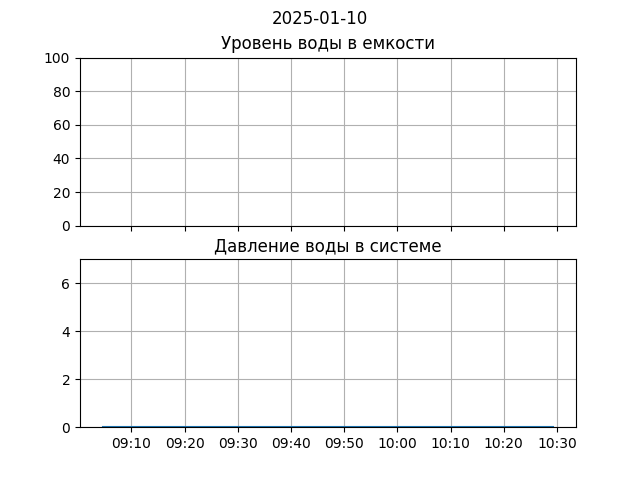
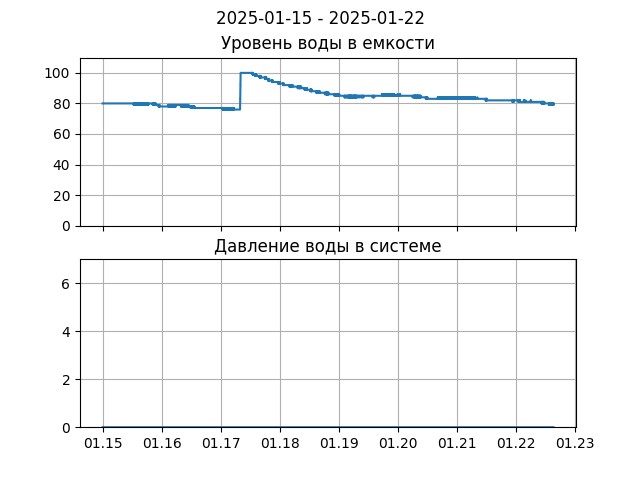
Выборка в архиве теперь за предшествующую неделю

diff --git a/service/plots.py b/service/plots.py
@@ -1,4 +1,4 @@
-from datetime import date
+from datetime import date, timedelta
 from matplotlib.axes import Axes
 from matplotlib.patches import Rectangle
 import matplotlib.pyplot as plt
@@ -53,6 +53,7 @@ def plot_archive_levels(
     pressures: Sequence[Pressure],
     clicked_date: date,
 ):
+    interval = clicked_date - timedelta(days=7)
     x_levels = np.array([level.dttm for level in levels])
     y_levels = np.array([level.value for level in levels])
 
@@ -62,8 +63,8 @@ def plot_archive_levels(
     ])
 
     fig, axes = plt.subplots(2, 1, sharex=True)
-    fig.suptitle(f"{clicked_date.isoformat()}")
-    date_format = mdates.DateFormatter("%H:%M")
+    fig.suptitle(f"{interval.isoformat()} - {clicked_date.isoformat()}")
+    date_format = mdates.DateFormatter("%m.%d")
     axes[1].xaxis.set_major_formatter(date_format)
     axes[0].set_ylim(0, 110)
     axes[1].set_ylim(0, 7)

diff --git a/db/repo.py b/db/repo.py
@@ -1,4 +1,4 @@
-from datetime import date
+from datetime import date, timedelta
 from sqlalchemy import func, select
 from sqlalchemy.ext.asyncio import AsyncSession
 
@@ -13,9 +13,10 @@ async def get_last(session: AsyncSession, tables: list):
 
 
 async def get_by_date(session: AsyncSession, selected_date: date, models: list):
+    interval = selected_date - timedelta(days=7)
     result = []
     for model in models:
-        query = select(model).where(func.date(model.dttm) == selected_date.isoformat())
+        query = select(model).filter(func.date(model.dttm).between(interval, selected_date))
         data = await session.scalars(query)
         result.append(data.all())
     return result

diff --git a/config.py b/config.py
@@ -1,9 +1,5 @@
-# from pathlib import Path
-
 from pydantic import BaseModel, SecretStr
 from pydantic_settings import BaseSettings, SettingsConfigDict
-
-# BASE_DIR = Path(__file__).resolve().parent
 
 
 class ModbusSettings(BaseModel):
@@ -17,11 +13,10 @@ class Settings(BaseSettings):
     modbus: ModbusSettings
     password: SecretStr
 
-
     @property
     def sqlite_async_dsn(self):
         return f"sqlite+aiosqlite:///{self.db_name}"
-    
+
     @property
     def sqlite_dsn(self):
         return f"sqlite:///{self.db_name}"

diff --git a/handlers.py b/handlers.py
@@ -3,7 +3,6 @@ from datetime import date, datetime, timedelta
 from aiogram.types import CallbackQuery, Message
 from aiogram_dialog import DialogManager
 from aiogram_dialog.widgets.kbd import ManagedCalendar
-from sqlalchemy import func, select
 from sqlalchemy.ext.asyncio.session import AsyncSession
 
 from config import settings
